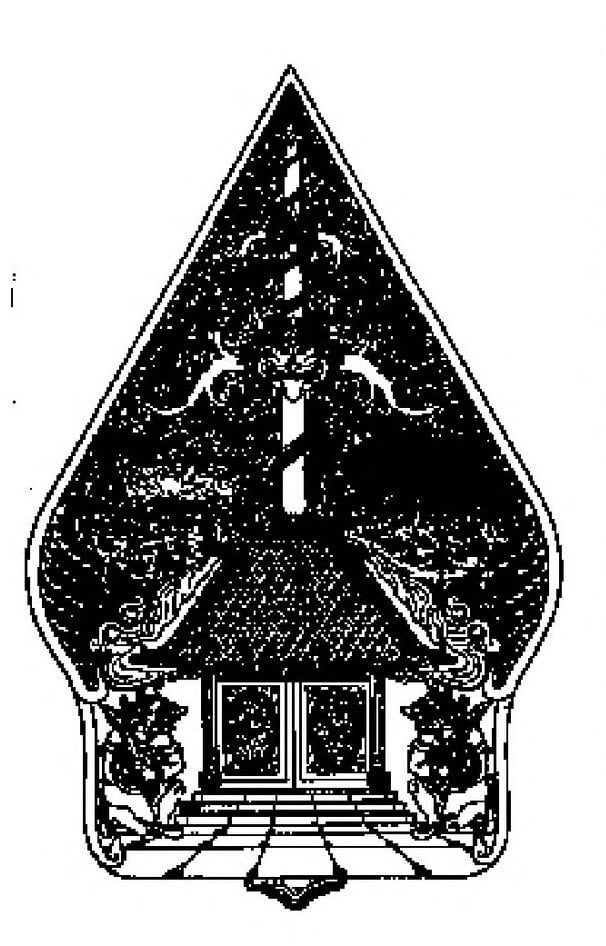
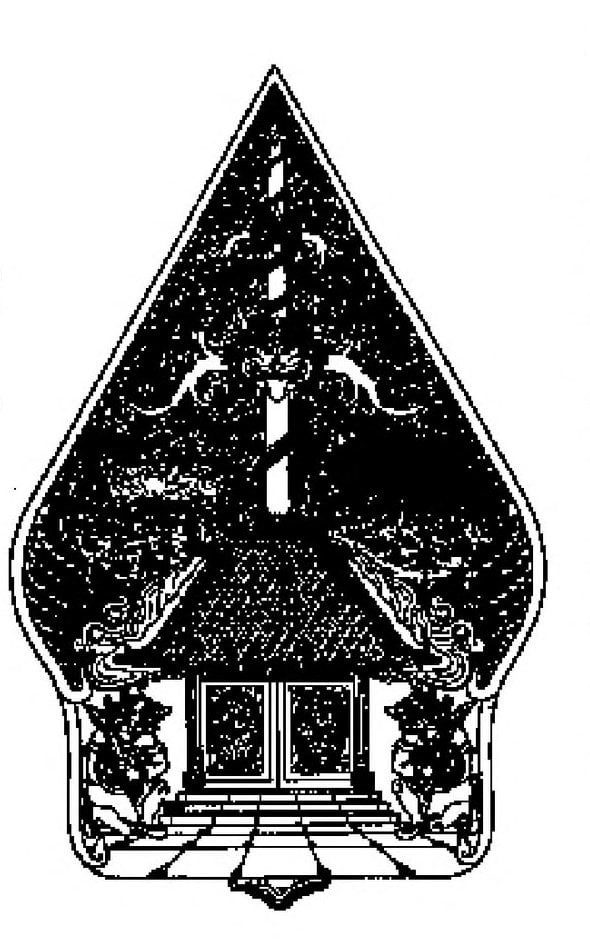
blog(trees-of-life): trim kayon and Codex Laud p.24 edges

Changed region(s): [[0.0, 0.0613, 0.9458, 0.981], [0.0, 0.3066, 0.0305, 0.3372]]

diff --git a/src/app/blog/trees-of-life/page.tsx b/src/app/blog/trees-of-life/page.tsx
@@ -294,7 +294,7 @@ export default function TreesOfLifePage() {
             src={`${IMG}/codex-laud-24.jpg`}
             alt="A deity enthroned before a brown tree, with a parrot and day signs below"
             href="/book/69b3e684abb796bfd9de428e?page=24"
-            width={432}
+            width={416}
             height={433}
           >
             Codex Laud: a deity enthroned before a tree, with a parrot.
@@ -414,7 +414,7 @@ export default function TreesOfLifePage() {
           src={`${IMG}/kayon.jpg`}
           alt="Leaf-shaped shadow puppet: a tree trunk rising above a gated house with steps"
           href="/book/69e75aefa953ec232ce8d610?page=154"
-          width={606}
+          width={590}
           height={946}
         >
           A <em>kayon</em>, from <em>Kilatbuwana</em>, the text of a Javanese wayang kulit performance (1984).
